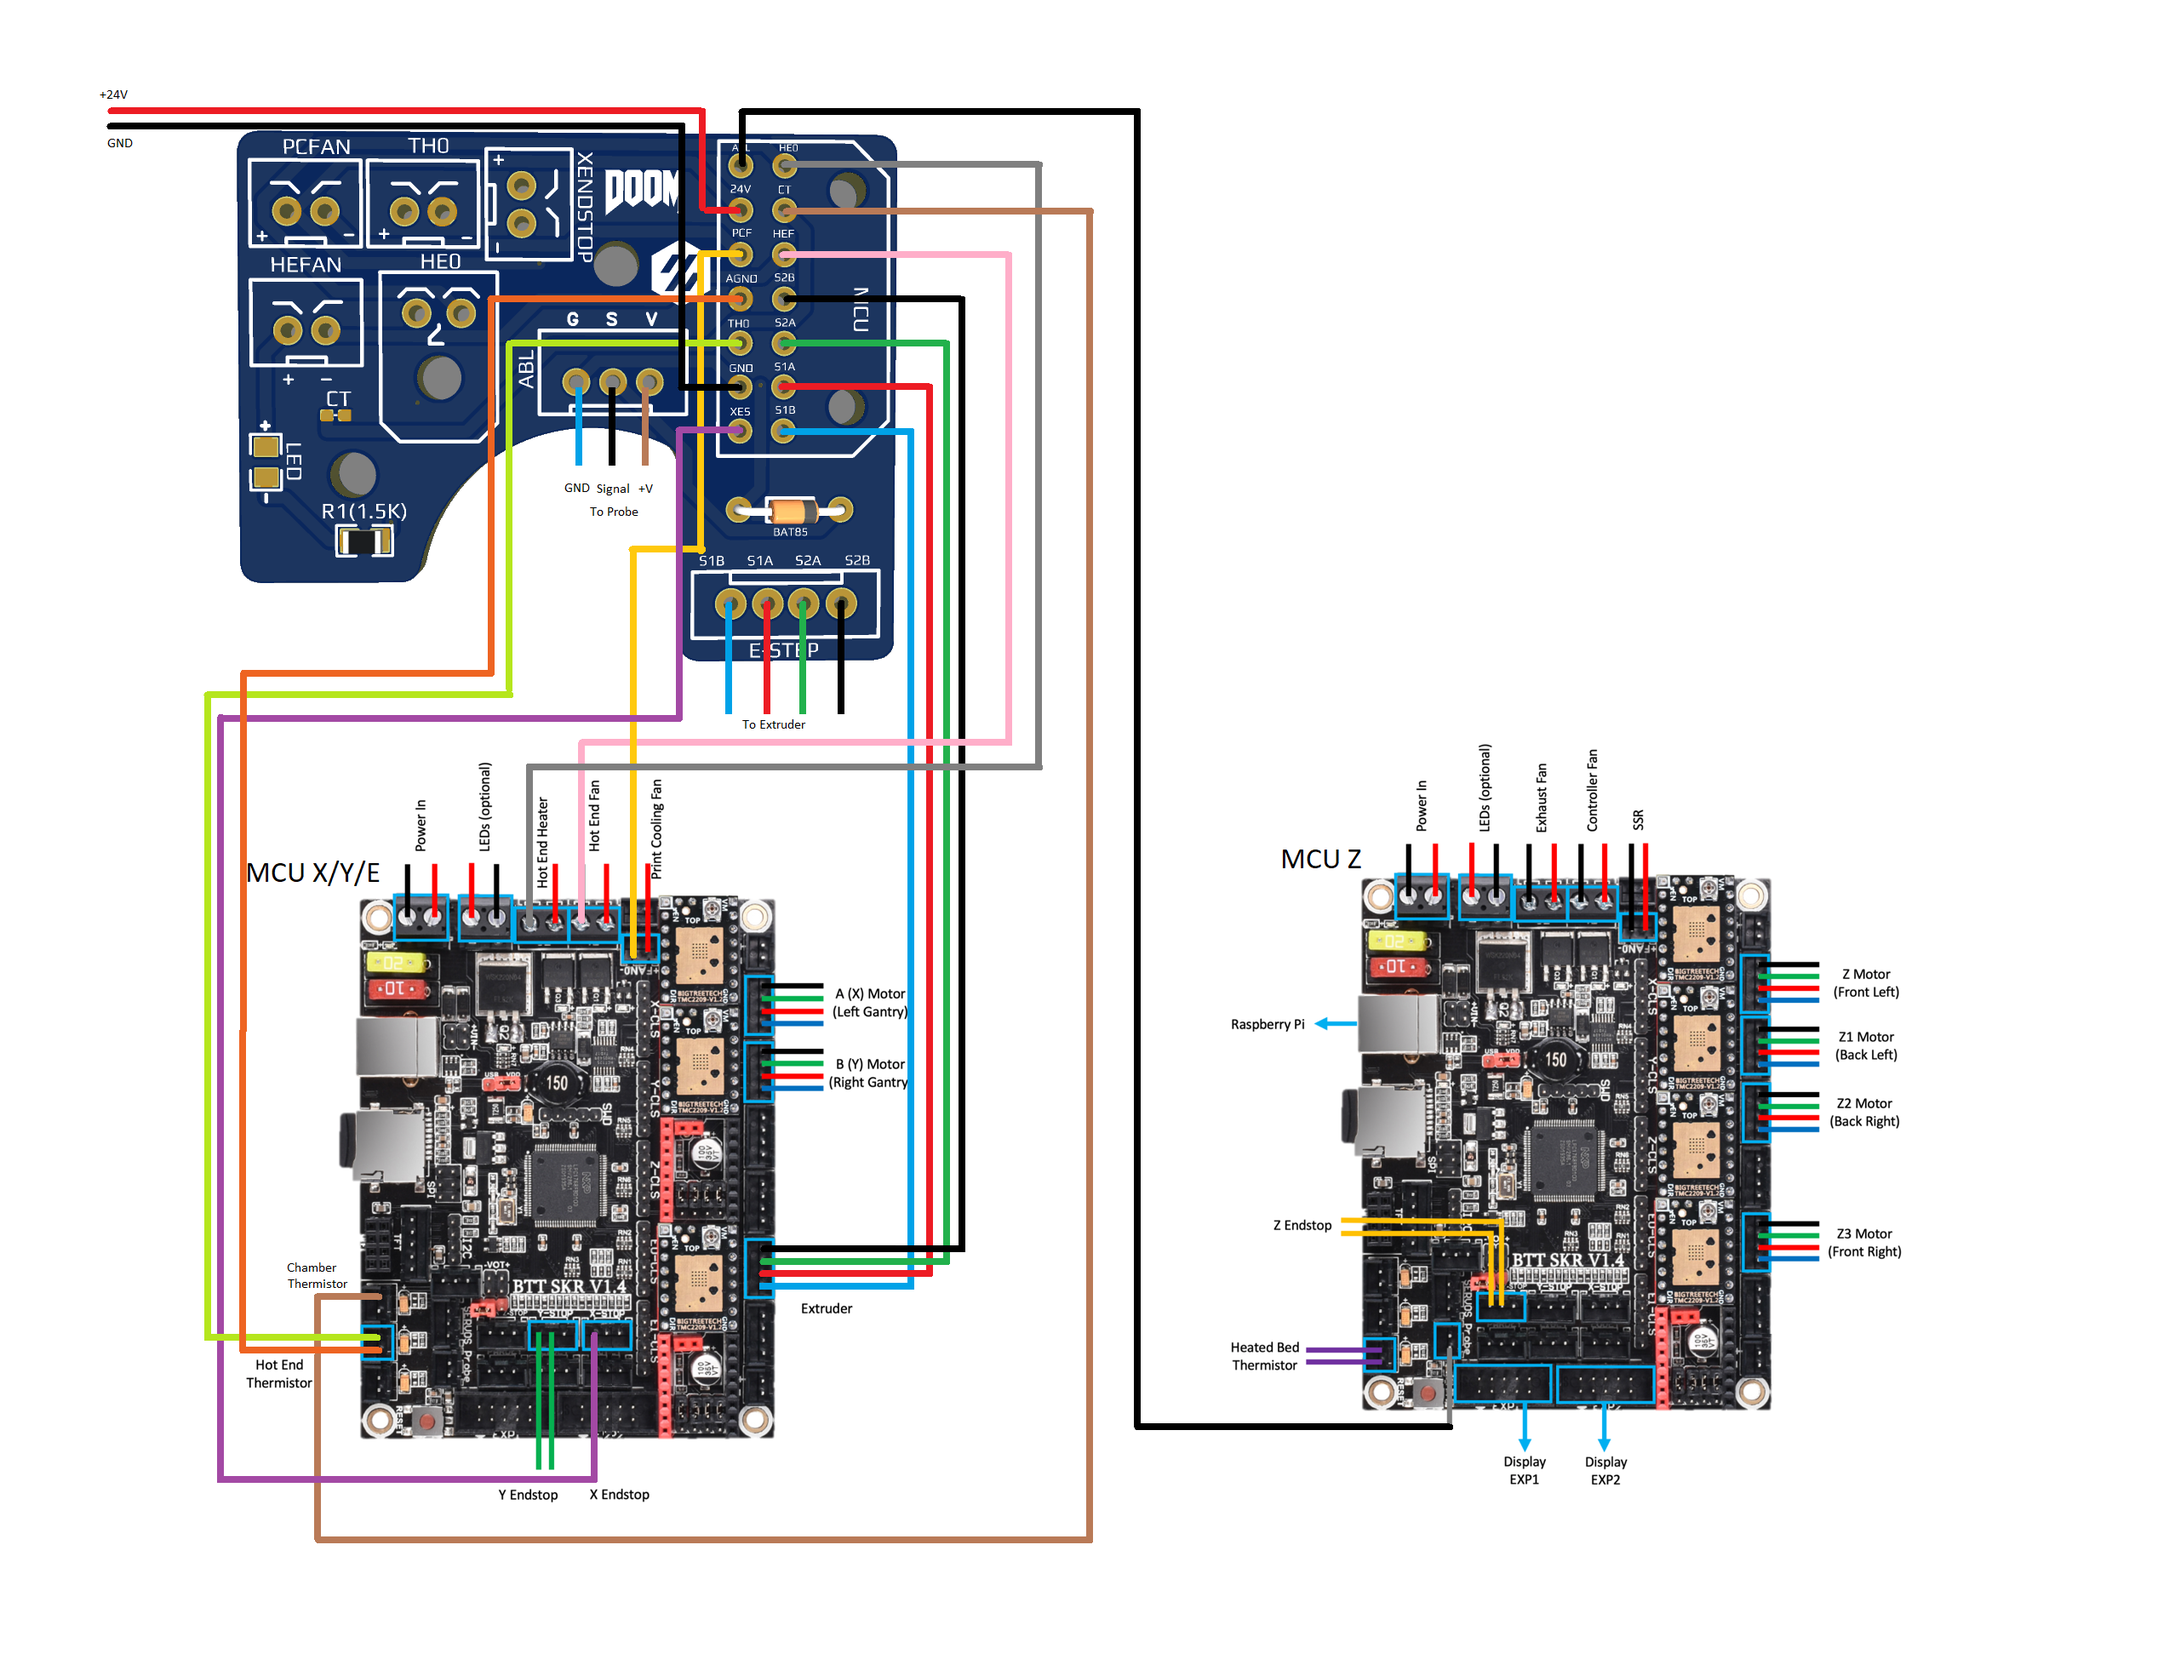
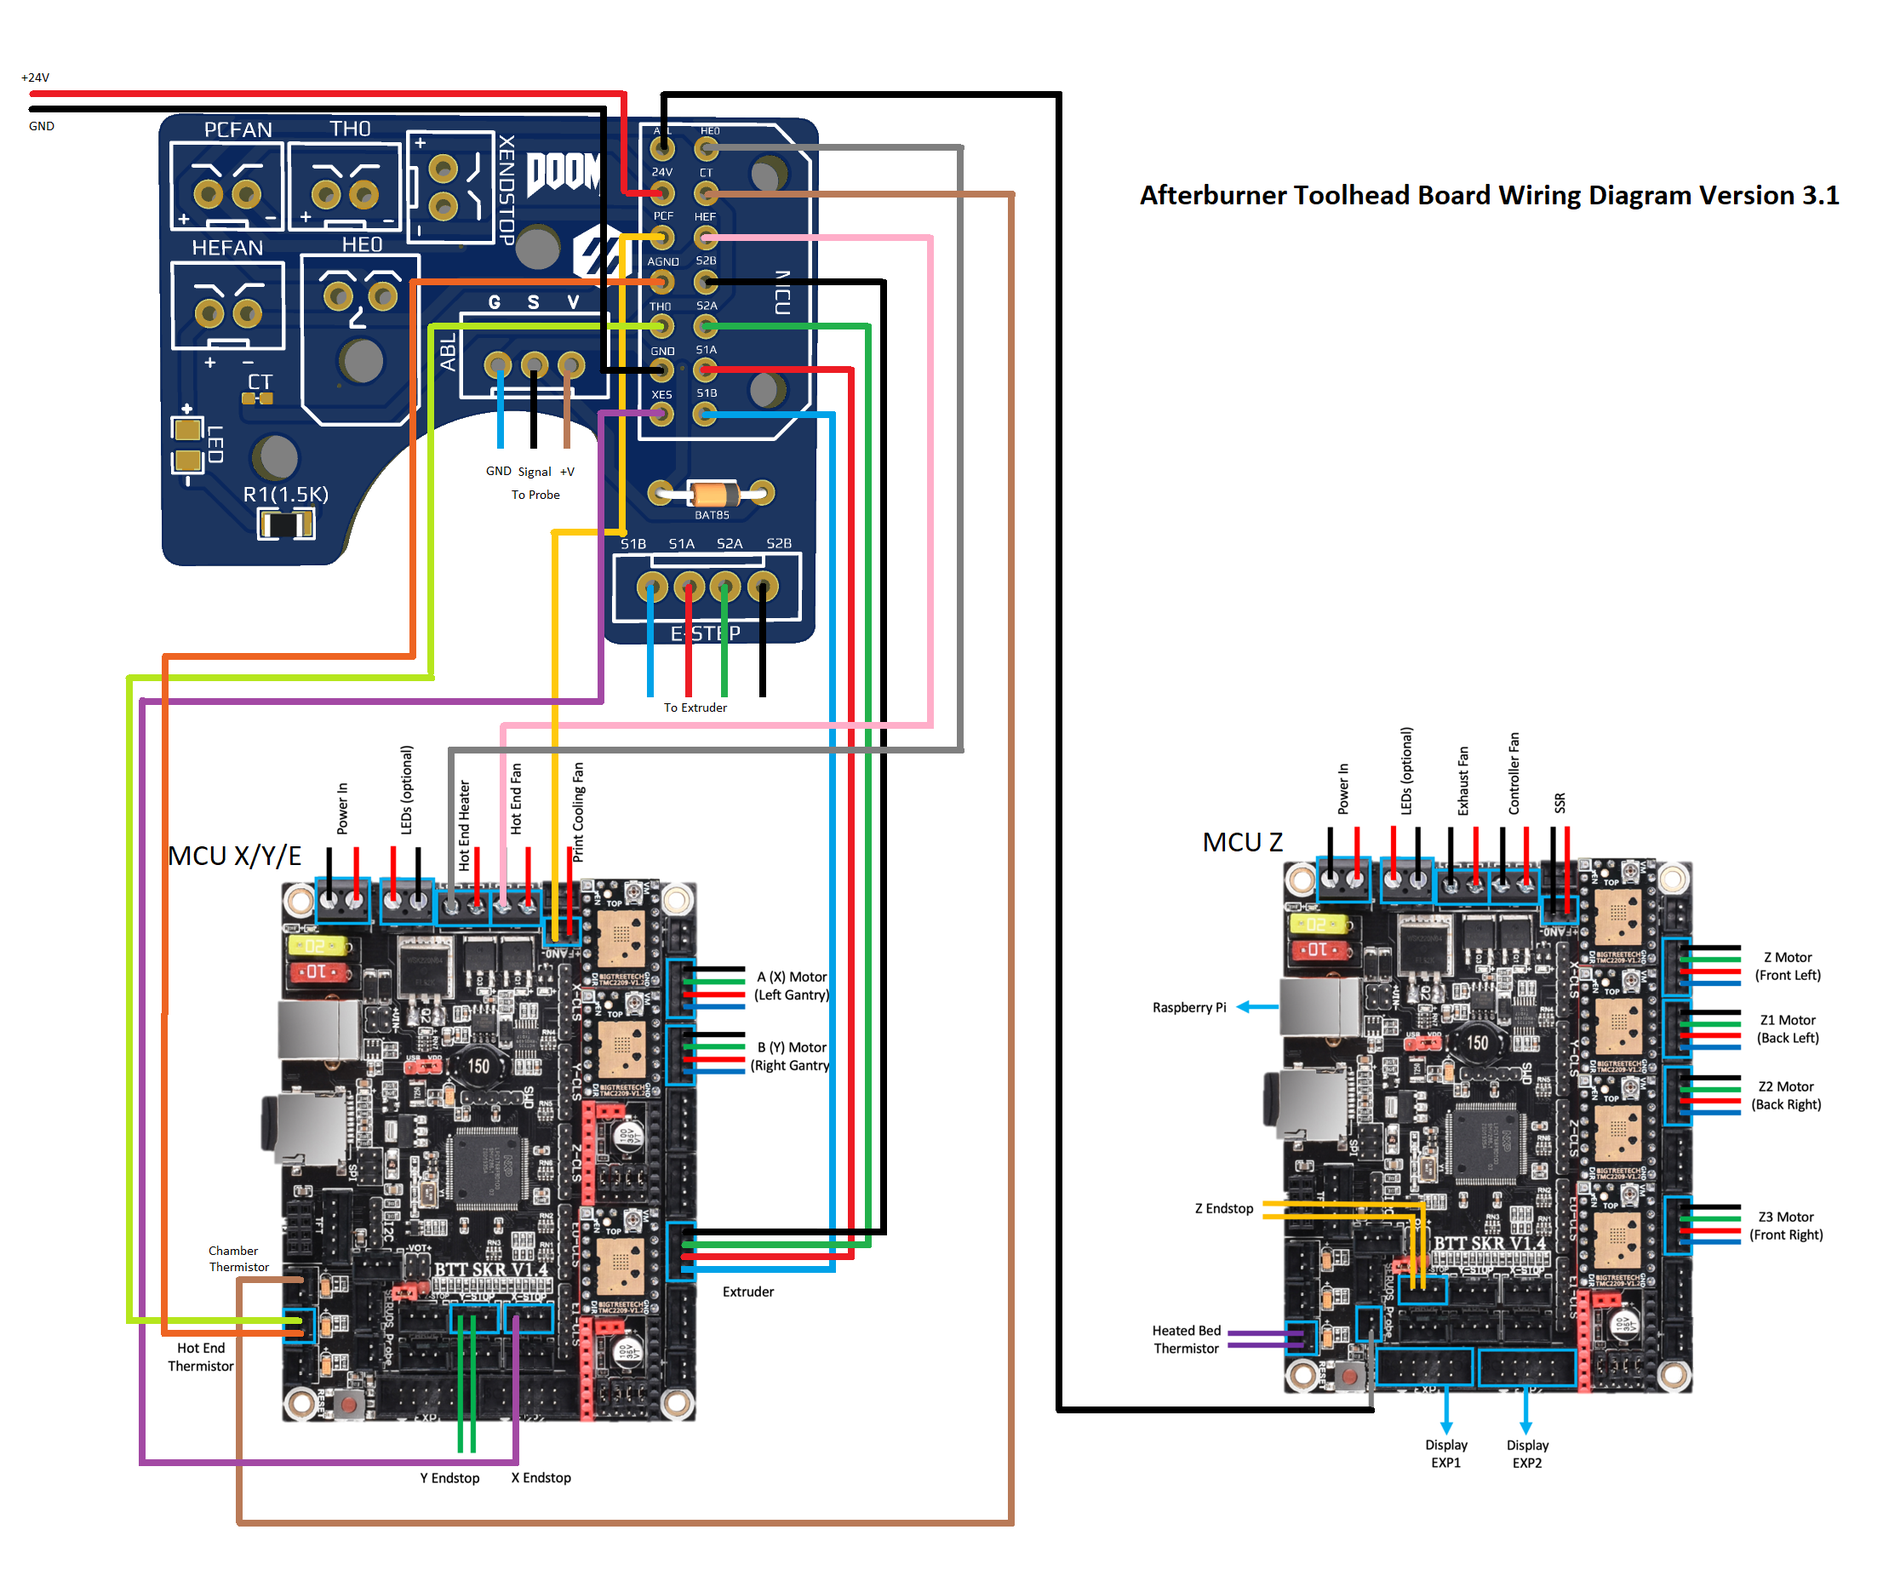
added files

diff --git a/3D-Printing/PCBs/Afterburner_Toolhead_PCB/README.md b/3D-Printing/PCBs/Afterburner_Toolhead_PCB/README.md
@@ -1,9 +1,20 @@
 
 # Afterburner Toolhead Board #
-![PCB](Images/1.png)
 
 
-### NOTE: THERE ARE A FEW DIFFERENT VERSIONS OF THIS BOARD GOING AROUND, THE WIRING DIAGRAM IS FOR THE MOST CURRENT VERSION AS POSTED HERE. IF YOU BOUGHT FROM ME OR ANYONE ELSE ON THE FLEA MARKET AND HAVE ANY QUESTIONS DM ME ON DISCORD
+
+
+### NOTE: THERE ARE A FEW DIFFERENT VERSIONS OF THIS BOARD GOING AROUND, 3.0 and 3.1, BOTH WIRING DIAGRAMS WILL BE UPLOADED HERE SHORTLY 
+
+## This is 3.1 -
+![PCB](Images/Rev3.1/1.png)
+ [Here](Images/Rev3.1/wiringDiagram.png) is the wiring diagram
+
+
+
+## This is 3.0
+![PCB](Images/Rev3.0/1.png)
+ [Here](Images/Rev3.0/wiringDiagram.png) is the wiring diagram
 
 ## The board has: ##
  - BAT85 Diode for abl probe
